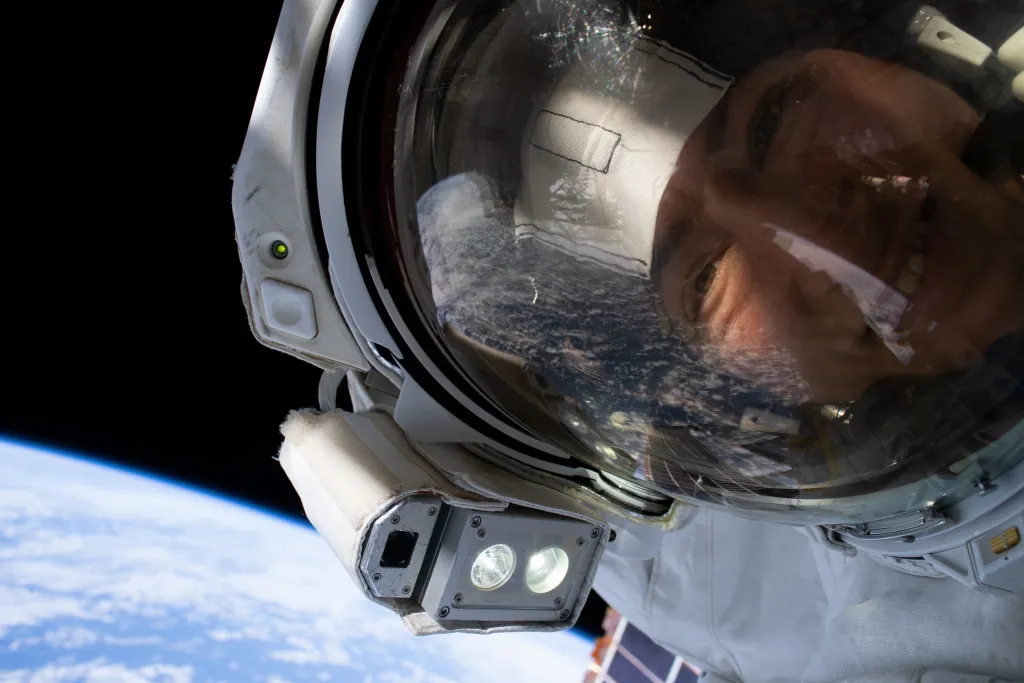
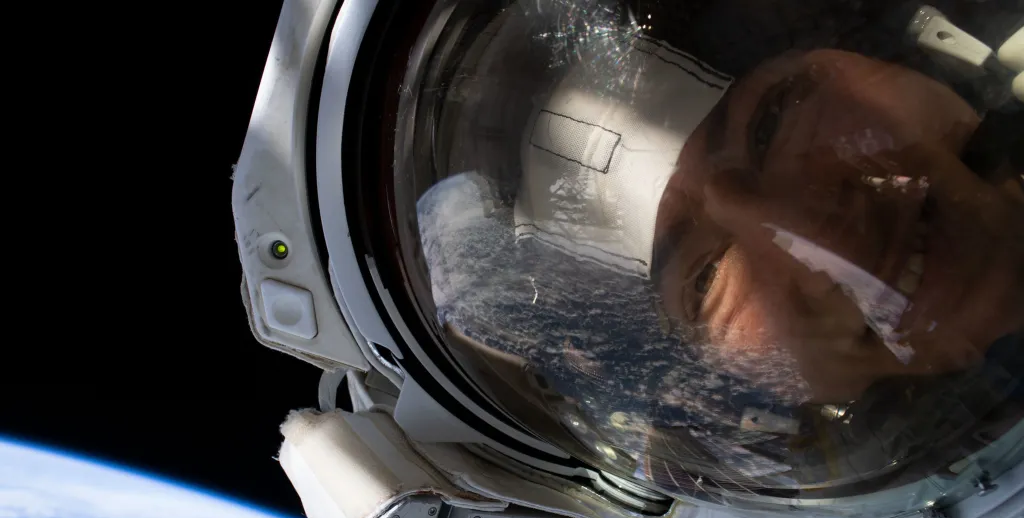
gkgk

diff --git a/style.css b/style.css
@@ -1,9 +1,6 @@
 *{
     margin:0;
     padding:0;
-    user-select:none;
-    -webkit-user-select: none;
-    -ms-user-select:none;
 }
 
 @font-face {
@@ -527,19 +524,18 @@ body{
     background-position:center;
     position:relative;
     display:flex;
+    flex-direction:column;
     align-items: center;
-    justify-content:center;
+    justify-content:flex-start;
+    padding-top:80px;
 }
 
 .artemis-1-header{
     font-family:'Rostex';
     color:white;
     font-size:7rem;
-    top:20px;
-    position:absolute;
-    margin-left:-790px;
-    margin-top:50px;
     text-align:center;
+    margin:0 0 30px 0;
     text-shadow:
         0 0 5px rgba(0,0,0,0.8),
         0 0 10px rgba(0,0,0,0.6),
@@ -555,9 +551,7 @@ body{
     color:white;
     width:850px;
     font-size:30px;
-    margin-left:-200px;
-    margin-top:-270px;
-    transform:translateX(-180px); 
+    margin-bottom:30px;
     text-shadow:
         0 0 5px rgba(0,0,0,0.8),
         0 0 10px rgba(0,0,0,0.6),
@@ -575,8 +569,6 @@ body{
     width:1350px;
     height:250px;  
     border-radius:20px;  
-    margin-left:-1130px;
-    margin-top:600px;
     transition: transform 0.25s cubic-bezier(0.25, 0.1, 0.25, 1),
                 text-shadow 0.25s ease;
     transform-origin: bottom center;
@@ -686,8 +678,11 @@ body{
     background-position:center;
     position:relative;
     display:flex;
+    flex-direction:column;
     align-items: center;
-    justify-content:center;
+    justify-content:flex-start;
+    padding-top:80px;
+    gap:10px;
 }
 
 .artemis-2-header{
@@ -695,10 +690,6 @@ body{
     color:white;
     font-size:7rem;
     top:20px;
-    position:absolute;
-    margin-left:950px;
-    margin-top:50px;
-    text-align:center;
     text-shadow:
         0 0 5px rgba(0,0,0,0.8),
         0 0 10px rgba(0,0,0,0.6),
@@ -714,9 +705,6 @@ body{
     color:white;
     width:850px;
     font-size:30px;
-    margin-left:-200px;
-    margin-top:-270px;
-    transform:translateX(700px); 
     text-shadow:
         0 0 5px rgba(0,0,0,0.8),
         0 0 10px rgba(0,0,0,0.6),
@@ -734,8 +722,6 @@ body{
     width:1350px;
     height:250px;  
     border-radius:20px;  
-    margin-left:-1130px;
-    margin-top:600px;
     transition: transform 0.25s cubic-bezier(0.25, 0.1, 0.25, 1),
                 text-shadow 0.25s ease;
     transform-origin: bottom center;
@@ -779,19 +765,27 @@ body{
 
 }
 
-.Artemis-II.Crew-Images-Grid{
+#Artemis-2-Crew-div{
+    width:100%;
+}
+
+.Artemis-II-Crew-Images-Grid{
     display:grid;
-    grid-auto-flow:row;
-    grid-template-columns: repeat(autofit, minmax(180px, 1fr));
+    grid-auto-flow: row;
+    grid-template-columns: repeat(auto-fit, minmax(180px, 1fr));
     gap:10px;
+    width:100%;
 }
 
 .Artemis-II-Crew-Images-Grid img{
     width:100%;
-    max-width:300px;
+    max-width:400px;
     margin: 0 auto;
     display:block;
     border-radius:10px;
     cursor:pointer;
     transition:transform 0.2s ease;
+    object-fit:cover;
+    
 }
+

diff --git a/Artemis.html b/Artemis.html
@@ -97,17 +97,17 @@
 
             <div>
                 <ul class="Artemis-stats-table">
-                    <li class="list-decor">Mission Duration: 25.5 Days</li>
-                    <li class="list-decor">Launch Date: 16th November 2022</li>
+                    <li class="list-decor">Mission Duration: 10 Days</li>
+                    <li class="list-decor">Launch Date: 1st April 2026</li>
                     <li class="list-decor">Launch Site: Kennedy Space Center</li>
-                    <li class="list-decor">Distance from Earth: 432, 210KM</li>
+                    <li class="list-decor">Distance from Earth: 406, 773KM</li>
                     <li class="list-decor">SLS Block 1</li>
                 </ul>
 
                 <ul class="Artemis-stats-table-right">
                     <li class="list-decor">Launch Vehicle: SLS Block 1</li>
-                    <li class="list-decor">Orbit Type: Distant Retrograde</li>
-                    <li class="list-decor">Crew: Unmanned</li>
+                    <li class="list-decor">Orbit Type: Free-return Trajectory</li>
+                    <li class="list-decor">Crew: Four</li>
 
                 </ul>
             </div>
@@ -126,7 +126,7 @@
             <a href="#"><img src="Assets/Reid_wiseman.png" alt="Reid Wiseman"></a>
         </div>
         <div class="astronautcard">
-            <a href="#"><img src="Assets/Christina_koch.png" alt="Christina Koch"></a>
+            <a href="#"><img src="Assets/images (1).jpeg" alt="Christina Koch"></a>
         </div>
         <div class="astronautcard">
             <a href="#"><img src="Assets/Jeremy_Hansen.png" alt="Jeremy Hansen"></a>